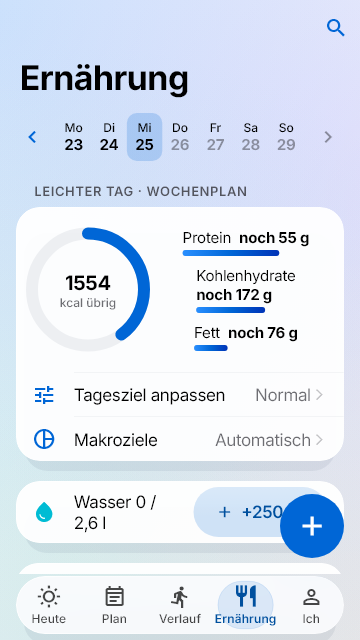
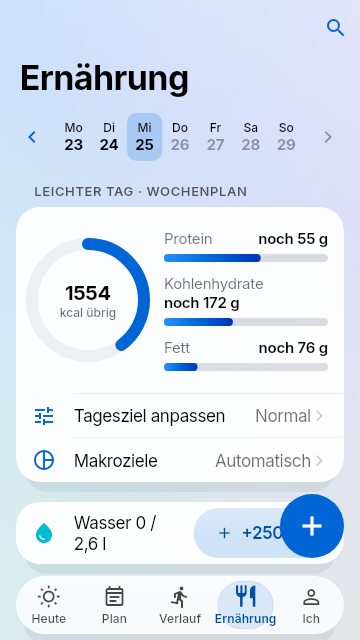
fix(ernaehrung): Makrobalken über volle Breite und mit sichtbarer Spur
Balken liefen bisher nur so breit wie ihr Text und waren zentriert; die
Spur war auf weißen Karten kaum zu sehen. Jetzt Name links, Rest rechts,
Balken über die ganze Restbreite (8 pt), Spur kräftiger.

Claude-Session: https://claude.ai/code/session_019dGr4PQ89AvwLAF9SmoX7U

diff --git a/lib/features/nutrition/nutrition_day_parts.dart b/lib/features/nutrition/nutrition_day_parts.dart
@@ -119,7 +119,9 @@ class _BudgetSection extends StatelessWidget {
               if (kcal != null) _CalorieRing(line: kcal),
               const SizedBox(width: 20),
               Expanded(
+                // Balken über die volle Restbreite, Beschriftung links bündig.
                 child: Column(
+                  crossAxisAlignment: CrossAxisAlignment.stretch,
                   children: [
                     for (final nutrient in NutritionBudget.main)
                       if (NutritionBudget.line(nutrient, targets: targets.values, totals: totals, intake: intake)
@@ -298,28 +300,40 @@ class _MacroBar extends StatelessWidget {
   final BudgetLine line;
 
   @override
-  Widget build(BuildContext context) => Padding(
-    padding: const EdgeInsets.symmetric(vertical: 5),
-    child: Column(
-      crossAxisAlignment: CrossAxisAlignment.start,
-      children: [
-        // Bei wenig Breite (kleines Gerät, große Schrift) rutscht der Rest in die nächste Zeile statt überzulaufen.
-        Wrap(
-          alignment: WrapAlignment.spaceBetween,
-          spacing: 8,
-          children: [
-            Text(line.nutrient.label),
-            Text(
-              NutritionBudget.remainingText(line),
-              style: TextStyle(fontWeight: FontWeight.bold, color: line.isOver ? AppColors.of(context).alert : null),
-            ),
-          ],
-        ),
-        const SizedBox(height: 3),
-        LiquidProgressBar(value: line.progress, color: line.isOver ? AppColors.of(context).alert : null),
-      ],
-    ),
-  );
+  Widget build(BuildContext context) {
+    final alert = AppColors.of(context).alert;
+    final muted = Theme.of(context).colorScheme.onSurfaceVariant;
+    return Padding(
+      padding: const EdgeInsets.symmetric(vertical: 6),
+      child: Column(
+        crossAxisAlignment: CrossAxisAlignment.stretch,
+        children: [
+          // Name links, Rest rechts auf einer Grundlinie; bei wenig Breite (kleines Gerät, große Schrift) rutscht der
+          // Rest in die nächste Zeile statt überzulaufen.
+          Wrap(
+            alignment: WrapAlignment.spaceBetween,
+            crossAxisAlignment: WrapCrossAlignment.end,
+            spacing: 8,
+            children: [
+              Text(line.nutrient.label, style: AppText.callout(context).copyWith(color: muted)),
+              Text(
+                NutritionBudget.remainingText(line),
+                style: AppText.callout(context)
+                    .copyWith(fontWeight: FontWeight.w600, color: line.isOver ? alert : null),
+              ),
+            ],
+          ),
+          const SizedBox(height: 6),
+          LiquidProgressBar(
+            value: line.progress,
+            height: 8,
+            color: line.isOver ? alert : null,
+            semanticsLabel: '${line.nutrient.label}, ${NutritionBudget.remainingText(line)}',
+          ),
+        ],
+      ),
+    );
+  }
 }
 
 /// Wasser mit Glas-Knopf: Antippen +250 ml, gedrückt halten für andere Mengen.

diff --git a/lib/ui/liquid.dart b/lib/ui/liquid.dart
@@ -141,7 +141,7 @@ class LiquidTheme extends ThemeExtension<LiquidTheme> {
     edgeTop: Color(0xE6FFFFFF),
     edgeBottom: Color(0x33FFFFFF),
     shadow: Color(0x142A3B5C),
-    track: Color(0x1A3C4B66),
+    track: Color(0x2E3C4B66),
     blurSigma: 24,
   );
 
@@ -160,7 +160,7 @@ class LiquidTheme extends ThemeExtension<LiquidTheme> {
     edgeTop: Color(0x40FFFFFF),
     edgeBottom: Color(0x08FFFFFF),
     shadow: Color(0x59000000),
-    track: Color(0x1FFFFFFF),
+    track: Color(0x33FFFFFF),
     blurSigma: 28,
   );
 

diff --git a/docs/migrationsplan.md b/docs/migrationsplan.md
@@ -482,3 +482,4 @@ Der Umfang (≈ 65 000 Zeilen) passt nicht in eine PR. Vorschlag: je PR ein Teil
 | Roast-Nacharbeit: deutsche Begriffe (Morgenbericht, Verpflegung, Trainingsbereitschaft, Normalbereich, Erholung, Einheit/Aktivität), Health-Meldungen ohne interne Namen; reduzierter Datenschutzmodus ohne WHOOP-Zahl | erledigt |
 | Roast-Nacharbeit: Verlauf, Ernährung, Plan, Woche und Gesundheit laden bei neuen Trainingsdaten neu (vorher nur beim Garmin-Abruf) | erledigt |
 | Durchläufe Ernährung (`test/walkthrough/`): Tagebuch, Erfassen, Gewicht, Verpflegungsprodukte; behoben: BLS-Suche mit Schreibweisen, Früheres in „Erfassen“ suchbar, Wasser 0,25 l, einheitlich „Sichern“ | erledigt |
+| Ernährung: Makrobalken (Protein/KH/Fett) über die volle Breite, Name links und Rest rechts, 8 pt hoch; Balkenspur (`LiquidTheme.track`) kräftiger, damit der Fortschritt auf weißen Karten erkennbar ist | erledigt |
